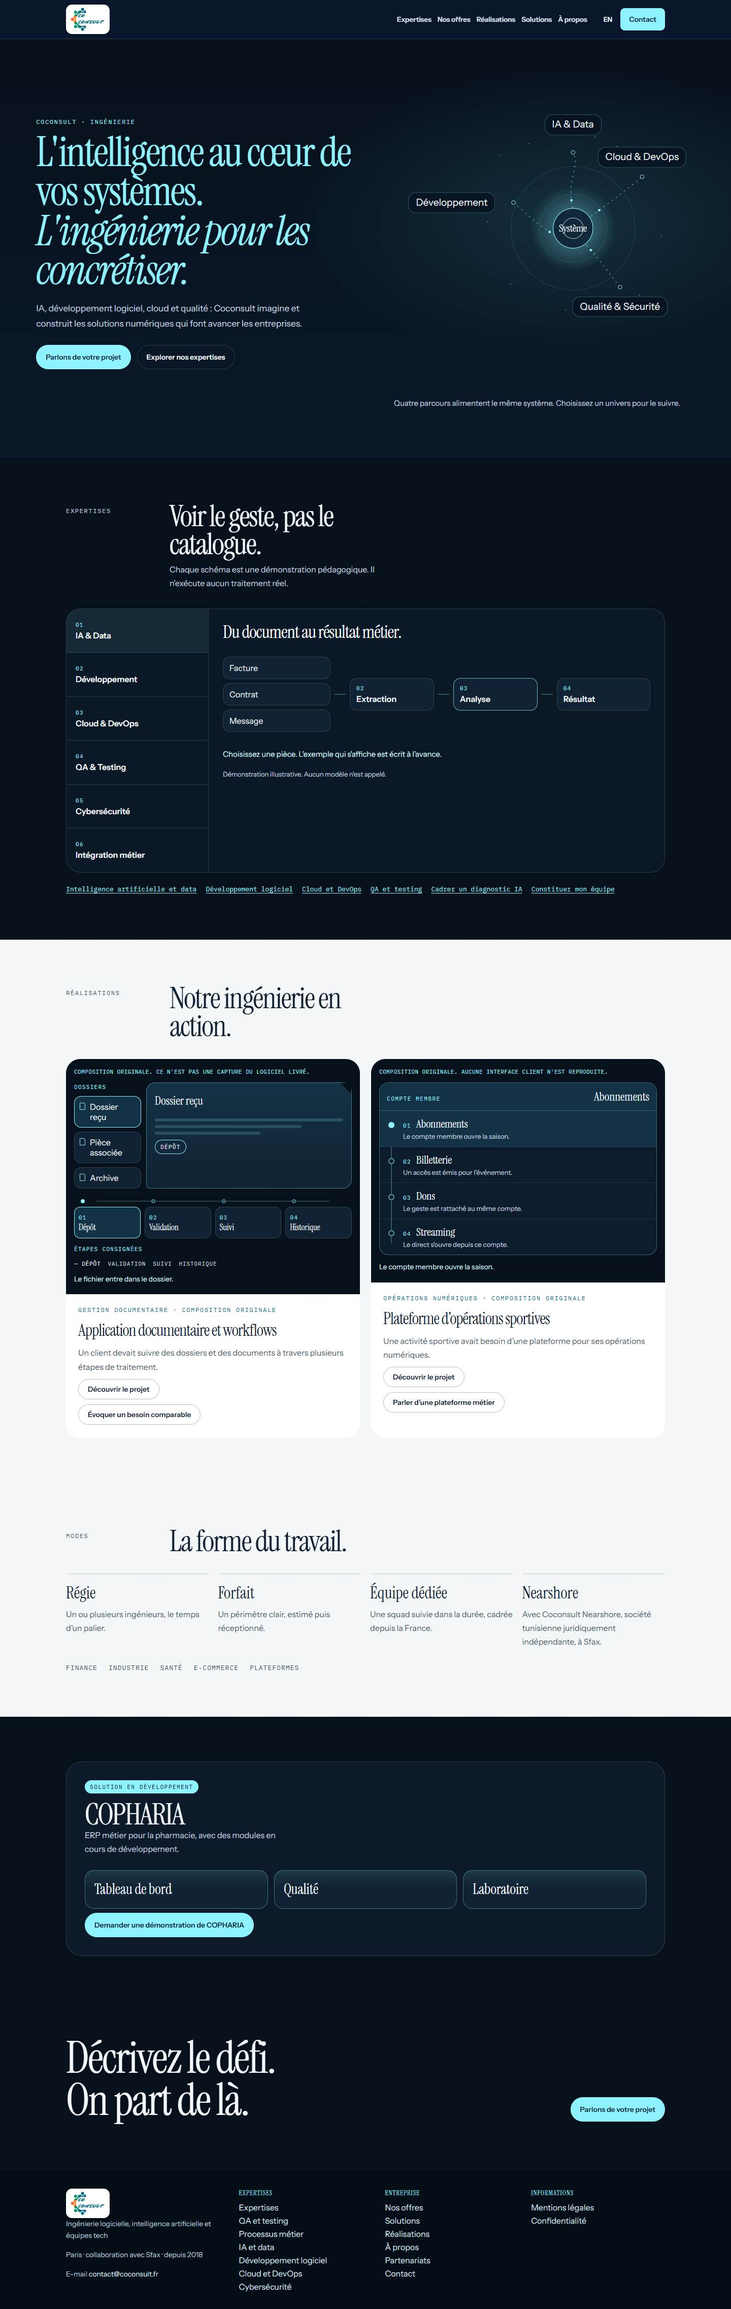
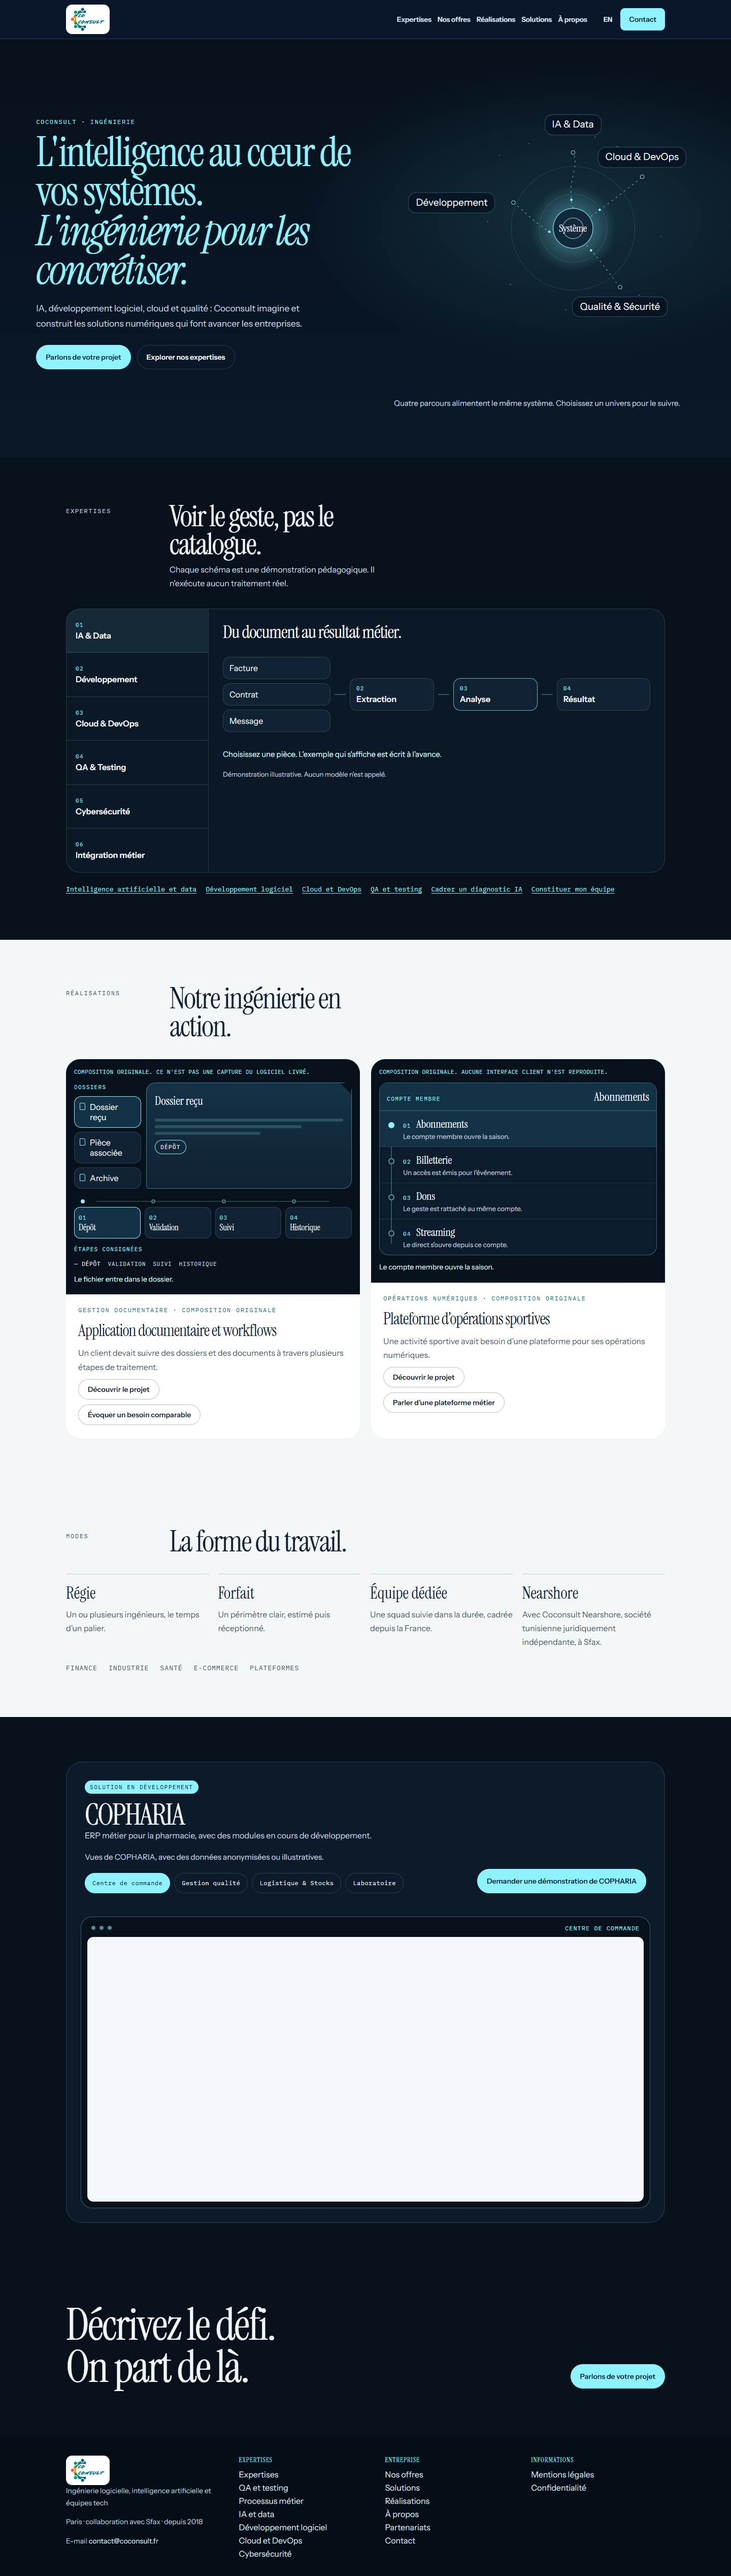
feat: present anonymized COPHARIA screens in a product gallery
The command center, quality, and stock views can be switched in place, while the laboratory stays without a capture.

diff --git a/src/styles/experience.css b/src/styles/experience.css
@@ -655,36 +655,78 @@ h1 .accent, .display .accent { display: block; font-style: italic; color: var(--
   overflow: hidden;
   border: 1px solid var(--line);
 }
-.capabilities {
+.feature.product-gallery { grid-template-columns: 1fr; align-items: stretch; }
+.gallery-head {
   display: grid;
-  grid-template-columns: repeat(3, minmax(0, 1fr));
-  gap: 12px;
-  margin: 28px 0 8px;
-  padding: 0;
-  list-style: none;
+  grid-template-columns: minmax(0, 1fr) auto;
+  gap: 24px 32px;
+  align-items: end;
+  padding: 36px 36px 0;
 }
-.capabilities li {
-  display: flex;
-  flex-direction: column;
-  justify-content: center;
-  gap: 12px;
+.product-gallery .feature-copy { padding: 0; }
+.product-gallery .feature-copy p { max-width: 58ch; }
+.gallery-note { margin-top: 14px; font-size: 0.95rem; }
+.gallery-tabs, .gallery-sub { display: flex; flex-wrap: wrap; gap: 8px; margin-top: 18px; }
+.gallery-tabs button, .gallery-sub button {
+  background: transparent;
+  border: 1px solid var(--line);
+  color: var(--ink);
+  border-radius: 999px;
+  min-height: 40px;
+  padding: 0 14px;
+  font-family: var(--mono);
+  font-size: 12px;
+  letter-spacing: 0.04em;
+  cursor: pointer;
+}
+.gallery-tabs button[aria-pressed="true"],
+.gallery-sub button[aria-pressed="true"] {
+  background: var(--cyan);
+  color: #062033;
+  border-color: var(--cyan);
+}
+.screen-frame {
+  margin: 18px 28px 28px;
+  padding: 12px;
   border: 1px solid rgba(142, 243, 255, 0.35);
-  border-radius: 18px;
-  padding: 22px 18px;
-  background:
-    linear-gradient(180deg, rgba(142, 243, 255, 0.1), transparent 46%),
-    #102233;
+  border-radius: 22px;
+  background: #07111c;
+  min-width: 0;
 }
-.capabilities img {
+.screen-bar {
+  display: flex;
+  align-items: center;
+  gap: 8px;
+  padding: 2px 8px 10px;
+  color: var(--cyan);
+  font-family: var(--mono);
+  font-size: 12px;
+  letter-spacing: 0.08em;
+  text-transform: uppercase;
+}
+.screen-bar span {
+  width: 8px;
+  height: 8px;
+  border-radius: 50%;
+  background: rgba(142, 243, 255, 0.55);
+}
+.screen-bar em { margin-left: auto; font-style: normal; }
+.screen-frame img {
   width: 100%;
   height: auto;
-  border-radius: 10px;
+  display: block;
+  border-radius: 12px;
+  background: #f4f7fb;
+  opacity: 1;
+  transition: opacity 0.28s ease;
 }
-.capabilities strong {
-  font-family: var(--display);
-  font-weight: 400;
-  font-size: clamp(1.35rem, 2vw, 1.75rem);
-  line-height: 1.05;
+.lab-note {
+  margin: 0;
+  min-height: 148px;
+  display: grid;
+  place-items: center;
+  text-align: center;
+  padding: 28px 16px;
 }
 .feature-copy { padding: 36px; min-width: 0; }
 .feature-copy p + p { margin-top: 12px; }
@@ -860,7 +902,9 @@ textarea { min-height: 140px; resize: vertical; }
   .doc-layout { grid-template-columns: 1fr; }
   .flow-rail::before, .flow-rail::after, .flow-rail button::before { display: none; }
   .flow-rail { padding-top: 0; grid-template-columns: 1fr 1fr; }
-  .capabilities { grid-template-columns: 1fr; }
+  .feature.product-gallery, .gallery-head { grid-template-columns: 1fr; }
+  .gallery-head { padding: 28px 20px 0; }
+  .screen-frame { margin: 16px 16px 20px; }
   .mode-row { grid-template-columns: 1fr 1fr; }
   .pipeline, .arch, .pipe, .bridge { grid-template-columns: 1fr; }
   .rail { height: 18px; background: linear-gradient(var(--cyan), var(--cyan)) center / 2px 100% no-repeat; }
@@ -908,7 +952,7 @@ textarea { min-height: 140px; resize: vertical; }
   .particle, .token { display: none; }
   .lane { animation: none; stroke-dasharray: none; }
   .packet { transition: none; }
-  .btn, .node, .skill, .layer { transition: none; }
+  .btn, .node, .skill, .layer, .screen-frame img { transition: none; }
 }
 
 }

diff --git a/public/assets/home.js b/public/assets/home.js
@@ -232,4 +232,87 @@
       button.textContent = open ? button.dataset.less || '' : button.dataset.more || '';
     });
   });
+
+  const reduceMotion = window.matchMedia('(prefers-reduced-motion: reduce)').matches;
+  document.querySelectorAll('[data-copharia-gallery]').forEach((gallery) => {
+    if (!(gallery instanceof HTMLElement)) return;
+    const img = gallery.querySelector('[data-screen]');
+    const note = gallery.querySelector('[data-lab-note]');
+    const label = gallery.querySelector('[data-screen-label]');
+    const sub = gallery.querySelector('[data-stock-switch]');
+    const views = [...gallery.querySelectorAll('[data-view]')];
+    const shots = [...gallery.querySelectorAll('[data-shot]')];
+
+    function paintImage(source) {
+      if (!(img instanceof HTMLImageElement) || !(source instanceof HTMLElement)) return;
+      const src = source.dataset.src || '';
+      if (note instanceof HTMLElement) note.hidden = true;
+      img.hidden = false;
+      if (label) label.textContent = source.dataset.label || '';
+      if (img.getAttribute('src') === src) {
+        img.style.opacity = '1';
+        return;
+      }
+      const apply = () => {
+        img.src = src;
+        img.alt = source.dataset.alt || '';
+        if (source.dataset.w) img.width = Number(source.dataset.w);
+        if (source.dataset.h) img.height = Number(source.dataset.h);
+      };
+      if (reduceMotion) {
+        img.style.opacity = '1';
+        apply();
+        return;
+      }
+      img.style.opacity = '0';
+      img.addEventListener('load', () => {
+        img.style.opacity = '1';
+      }, { once: true });
+      apply();
+    }
+
+    views.forEach((button) => {
+      button.addEventListener('click', () => {
+        if (!(button instanceof HTMLElement)) return;
+        views.forEach((item) => item.setAttribute('aria-pressed', item === button ? 'true' : 'false'));
+        if (button.dataset.view === 'lab') {
+          if (sub instanceof HTMLElement) sub.hidden = true;
+          if (img instanceof HTMLImageElement) img.hidden = true;
+          if (note instanceof HTMLElement) note.hidden = false;
+          if (label) label.textContent = button.dataset.label || '';
+          return;
+        }
+        if (sub instanceof HTMLElement) sub.hidden = button.dataset.view !== 'stocks';
+        if (button.dataset.view === 'stocks') {
+          const list = shots.find((item) => item instanceof HTMLElement && item.dataset.shot === 'stocks');
+          shots.forEach((item) => item.setAttribute('aria-pressed', item === list ? 'true' : 'false'));
+          paintImage(list);
+          return;
+        }
+        paintImage(button);
+      });
+    });
+
+    shots.forEach((button) => {
+      button.addEventListener('click', () => {
+        if (!(button instanceof HTMLElement)) return;
+        shots.forEach((item) => item.setAttribute('aria-pressed', item === button ? 'true' : 'false'));
+        paintImage(button);
+      });
+    });
+
+    gallery.querySelector('.gallery-tabs')?.addEventListener('keydown', (event) => {
+      if (!(event instanceof KeyboardEvent)) return;
+      if (event.key !== 'ArrowRight' && event.key !== 'ArrowLeft') return;
+      const index = views.indexOf(document.activeElement);
+      if (index < 0) return;
+      event.preventDefault();
+      const step = event.key === 'ArrowRight' ? 1 : -1;
+      const next = views[(index + step + views.length) % views.length];
+      if (next instanceof HTMLElement) {
+        next.focus();
+        next.click();
+      }
+    });
+  });
 })();

diff --git a/tests/e2e.spec.ts b/tests/e2e.spec.ts
@@ -325,6 +325,53 @@ test('public pages do not mention missing captures', async ({ page }) => {
   }
 });
 
+test('the COPHARIA gallery changes view and keeps the laboratory without a capture', async ({ page }) => {
+  await page.goto('/');
+  const gallery = page.locator('[data-copharia-gallery]');
+  const img = gallery.locator('[data-screen]');
+  await expect(img).toHaveAttribute('src', /dashboard\.webp/);
+  await expect(gallery.locator('.badge')).toHaveText('Solution en développement');
+  await gallery.getByRole('button', { name: 'Gestion qualité' }).click();
+  await expect(img).toHaveAttribute('src', /quality\.webp/);
+  await expect(img).toBeVisible();
+  await gallery.getByRole('button', { name: 'Logistique & Stocks' }).click();
+  await expect(img).toHaveAttribute('src', /stocks\.webp/);
+  await expect(gallery.locator('[data-stock-switch]')).toBeVisible();
+  await gallery.getByRole('button', { name: "Vue détaillée d'un article" }).click();
+  await expect(img).toHaveAttribute('src', /stock-detail\.webp/);
+  await expect(img).toBeVisible();
+  await gallery.getByRole('button', { name: 'Laboratoire' }).click();
+  await expect(img).toBeHidden();
+  await expect(gallery.locator('[data-lab-note]')).toBeVisible();
+  await expect(gallery.locator('img:visible')).toHaveCount(0);
+  await gallery.getByRole('button', { name: 'Centre de commande' }).focus();
+  await page.keyboard.press('ArrowRight');
+  await expect(img).toHaveAttribute('src', /quality\.webp/);
+  await expect(gallery.getByRole('link', { name: 'Demander une démonstration de COPHARIA' })).toHaveAttribute('href', '/contact/?type=demo&product=copharia');
+
+  await page.setViewportSize({ width: 390, height: 844 });
+  await page.goto('/solutions/');
+  const mobile = page.locator('[data-copharia-gallery]');
+  await expect(mobile.locator('[data-screen]')).toBeVisible();
+  const width = await mobile.locator('[data-screen]').evaluate((element) => element.getBoundingClientRect().width);
+  expect(width).toBeGreaterThan(280);
+  expect(width).toBeLessThanOrEqual(390);
+  const overflow = await page.evaluate(() => document.documentElement.scrollWidth - document.documentElement.clientWidth);
+  expect(overflow).toBeLessThanOrEqual(1);
+  await mobile.getByRole('button', { name: 'Laboratoire' }).click();
+  await expect(mobile.locator('[data-screen]')).toBeHidden();
+
+  await page.setViewportSize({ width: 1440, height: 900 });
+  await page.goto('/en/solutions/');
+  const english = page.locator('[data-copharia-gallery]');
+  await english.getByRole('button', { name: 'Logistics & stock' }).click();
+  await english.getByRole('button', { name: 'Article detail' }).click();
+  await expect(english.locator('[data-screen]')).toHaveAttribute('src', /stock-detail\.webp/);
+  await english.getByRole('button', { name: 'Laboratory' }).click();
+  await expect(english.locator('[data-screen]')).toBeHidden();
+  await expect(english.locator('[data-lab-note]')).toContainText('not published yet');
+});
+
 test('home and QA pages meet WCAG AA checks we can automate', async ({ page }) => {
   for (const urlPath of ['/', '/en/', '/contact/', '/en/contact/', '/solutions/', '/services/qa-testing/', '/en/services/qa-testing/']) {
     await page.goto(urlPath);

diff --git a/docs/copharia-captures.md b/docs/copharia-captures.md
@@ -1,20 +1,12 @@
 # Captures COPHARIA
 
-Ces indications ne figurent pas sur le site public.
+Le site public affiche quatre vues anonymisées :
 
-COPHARIA reste en développement. Sans capture autorisée, la page montre trois capacités : Tableau de bord, Qualité, Laboratoire. Aucune interface n’est dessinée à leur place.
+- `public/assets/copharia/dashboard.webp` — centre de commande
+- `public/assets/copharia/quality.webp` — gestion qualité
+- `public/assets/copharia/stocks.webp` — logistique et stocks
+- `public/assets/copharia/stock-detail.webp` — détail d'un article, proposé depuis la vue stocks
 
-Pour afficher les captures autorisées du tableau de bord, de la qualité et du laboratoire, les transmettre puis les passer à `CophariaFeature` :
+Le laboratoire n'a pas de capture. Ne pas lui attribuer une image stocks.
 
-```astro
-<CophariaFeature
-  locale={locale}
-  images={{
-    dashboard: '/assets/copharia/dashboard.jpg',
-    quality: '/assets/copharia/quality.jpg',
-    lab: '/assets/copharia/lab.jpg',
-  }}
-/>
-```
-
-Les trois emplacements sont indépendants. Une image absente laisse seulement le nom de la capacité.
+Les fichiers d'origine non anonymisés ne vont ni dans `public/`, ni dans `docs/`, ni dans les artefacts de test.
